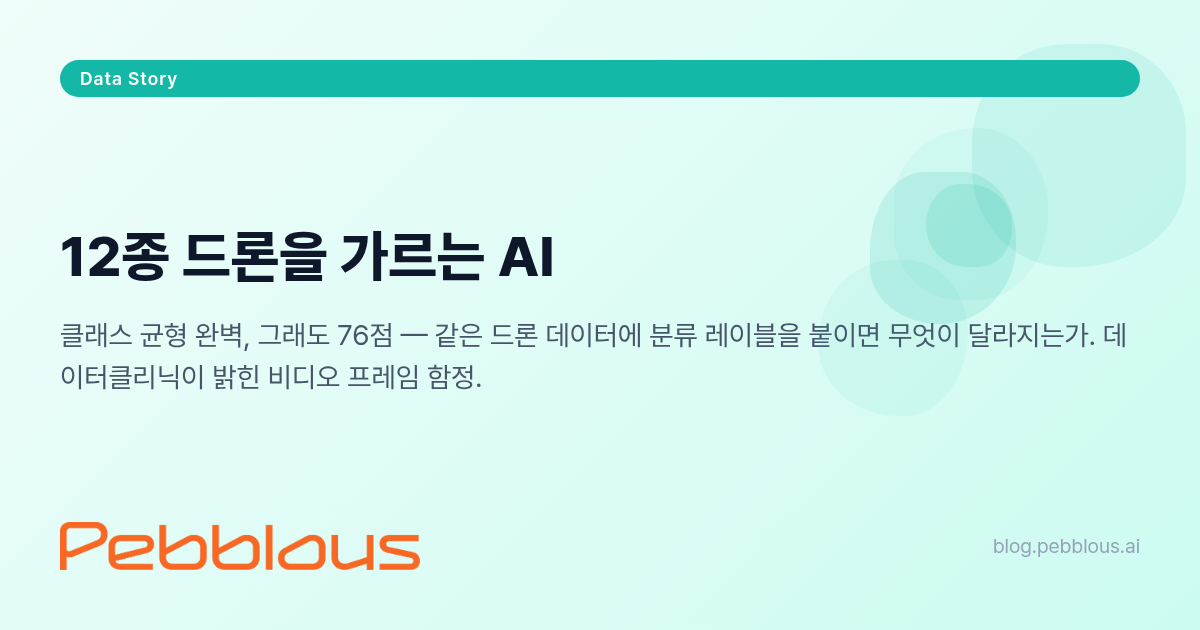
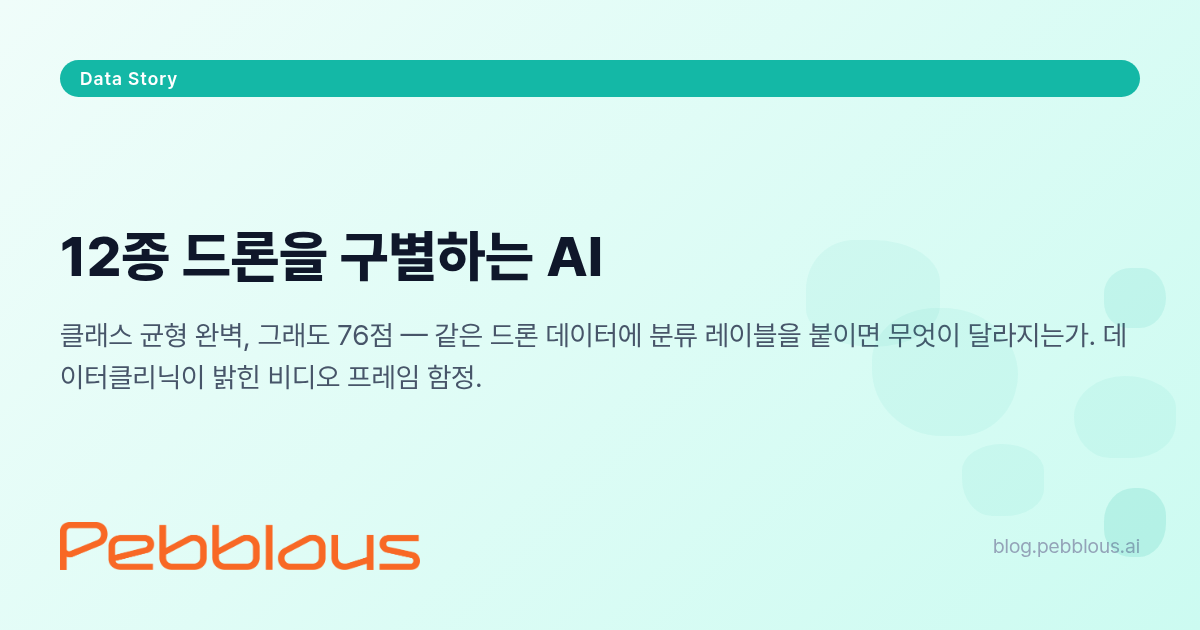
story(227): 제목 "가르는" → "구별하는" 수정 + OG 이미지 재생성

Changed region(s): [[0.7092, 0.181, 0.8942, 0.5127], [0.2775, 0.3619, 0.5242, 0.4524], [0.8942, 0.754, 0.9867, 0.9048]]

diff --git a/story/dataclinic-report-227-pbls-drone-classification-story-pb/ko/index.html b/story/dataclinic-report-227-pbls-drone-classification-story-pb/ko/index.html
@@ -7,7 +7,7 @@
     <meta name="language" content="Korean">
     <meta name="robots" content="index, follow">
 
-    <title>12종 드론을 가르는 AI — PBLS_Drone_classification DataClinic 진단기 | 페블러스</title>
+    <title>12종 드론을 구별하는 AI — PBLS_Drone_classification DataClinic 진단기 | 페블러스</title>
     <meta name="description" content="PBLS_Drone_classification: 12종 드론 기종을 2399장씩 완벽하게 균형 잡은 28,800장 합성 데이터셋. DataClinic 76점이 드러낸 '완벽한 균형의 함정'과 Data Diet 처방을 해부합니다.">
     <meta name="keywords" content="합성데이터, 드론분류, PBLS_Drone_classification, DataClinic, 드론AI, Counter-UAS, 클래스균형, 데이터다이어트, 페블러스, 방산AI, 드론인식">
 
@@ -17,8 +17,8 @@
     <link rel="alternate" hreflang="x-default" href="https://blog.pebblous.ai/story/dataclinic-report-227-pbls-drone-classification-story-pb/en/">
 
     <!-- Open Graph -->
-    <meta name="og-image-title" content="12종 드론을 가르는 AI">
-    <meta property="og:title" content="12종 드론을 가르는 AI — PBLS_Drone_classification DataClinic 진단기">
+    <meta name="og-image-title" content="12종 드론을 구별하는 AI">
+    <meta property="og:title" content="12종 드론을 구별하는 AI — PBLS_Drone_classification DataClinic 진단기">
     <meta property="og:description" content="클래스 균형 완벽, 그래도 76점 — 같은 드론 데이터에 분류 레이블을 붙이면 무엇이 달라지는가. 데이터클리닉이 밝힌 비디오 프레임 함정.">
     <meta property="og:type" content="article">
     <meta property="og:url" content="https://blog.pebblous.ai/story/dataclinic-report-227-pbls-drone-classification-story-pb/ko/">
@@ -32,7 +32,7 @@
 
     <!-- Twitter Card -->
     <meta name="twitter:card" content="summary_large_image">
-    <meta name="twitter:title" content="12종 드론을 가르는 AI — PBLS_Drone_classification DataClinic 진단기">
+    <meta name="twitter:title" content="12종 드론을 구별하는 AI — PBLS_Drone_classification DataClinic 진단기">
     <meta name="twitter:description" content="완벽한 클래스 균형(2399장×12), 그래도 76점. DataClinic 특화 렌즈가 드러낸 비디오 프레임 중복의 진실.">
     <meta name="twitter:image" content="https://blog.pebblous.ai/story/dataclinic-report-227-pbls-drone-classification-story-pb/ko/image/index.png">
 
@@ -52,7 +52,7 @@
     {
         "@context": "https://schema.org",
         "@type": "TechArticle",
-        "headline": "12종 드론을 가르는 AI — PBLS_Drone_classification DataClinic 진단기",
+        "headline": "12종 드론을 구별하는 AI — PBLS_Drone_classification DataClinic 진단기",
         "description": "PBLS_Drone_classification 데이터셋(28,800장·12클래스)의 DataClinic 진단 결과 분석. 완벽한 클래스 균형에도 76점에 그친 이유, 비디오 프레임 중복 문제와 Data Diet 처방을 해부합니다.",
         "url": "https://blog.pebblous.ai/story/dataclinic-report-227-pbls-drone-classification-story-pb/ko/",
         "image": "https://blog.pebblous.ai/story/dataclinic-report-227-pbls-drone-classification-story-pb/ko/image/index.png",
@@ -966,9 +966,9 @@
     <script src="/scripts/common-utils.js?v=20260402"></script>
     <script>
         PebblousPage.init({
-            mainTitle: "12종 드론을 가르는 AI",
+            mainTitle: "12종 드론을 구별하는 AI",
             subtitle: "PBLS_Drone_classification DataClinic 진단기 — 완벽한 균형의 함정",
-            pageTitle: "12종 드론을 가르는 AI — PBLS_Drone_classification DataClinic 진단기 | 페블러스",
+            pageTitle: "12종 드론을 구별하는 AI — PBLS_Drone_classification DataClinic 진단기 | 페블러스",
             category: "story",
             publishDate: "2026-04-02",
             publisher: "(주)페블러스 데이터 커뮤니케이션팀",
